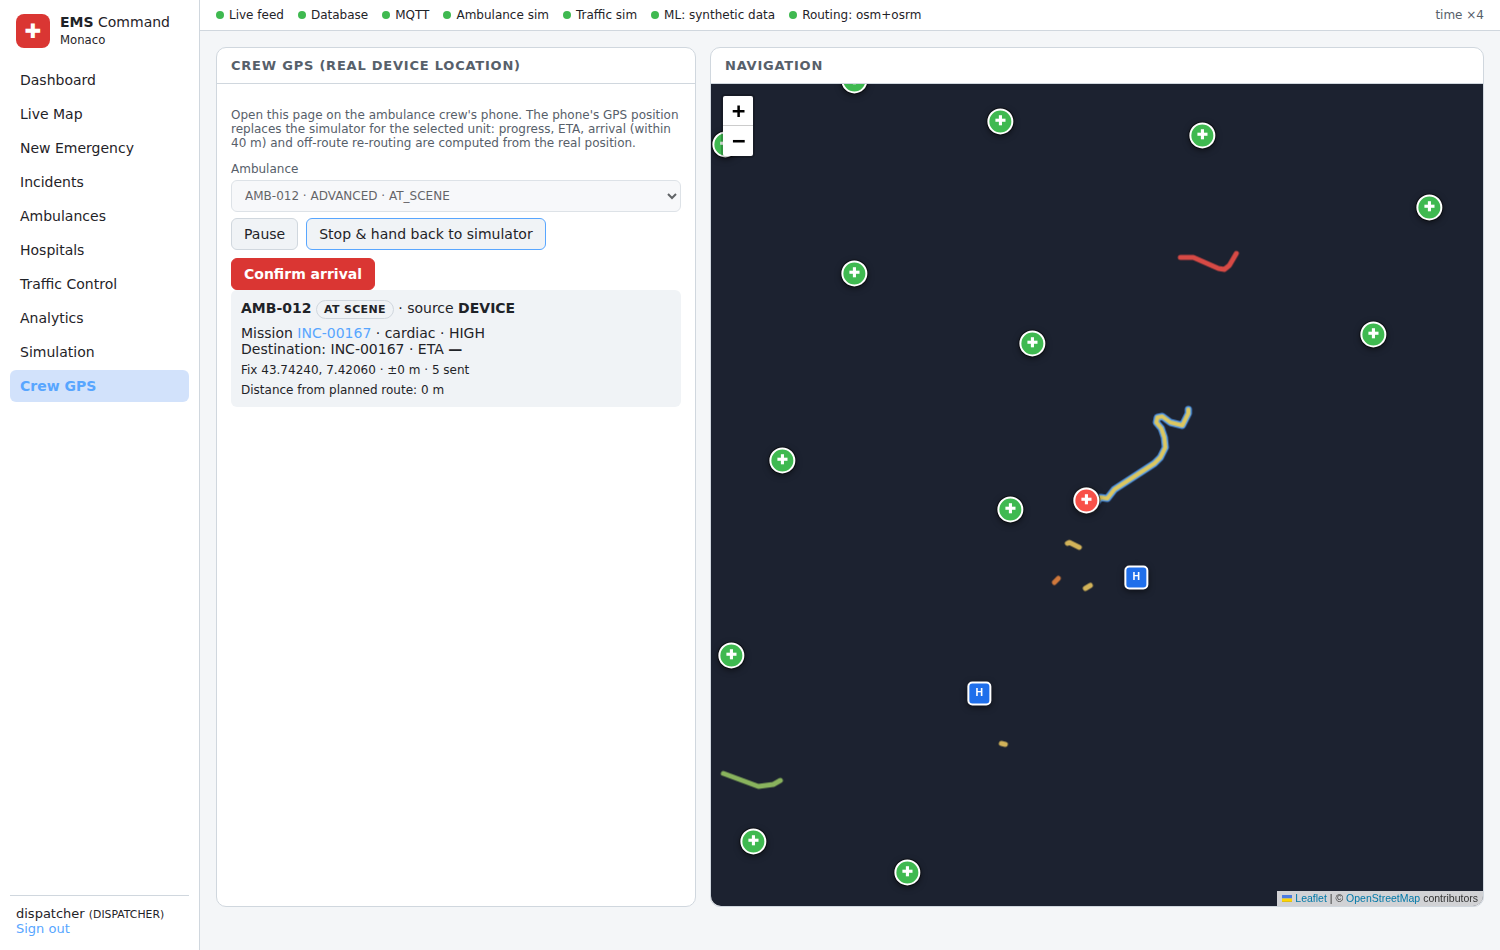
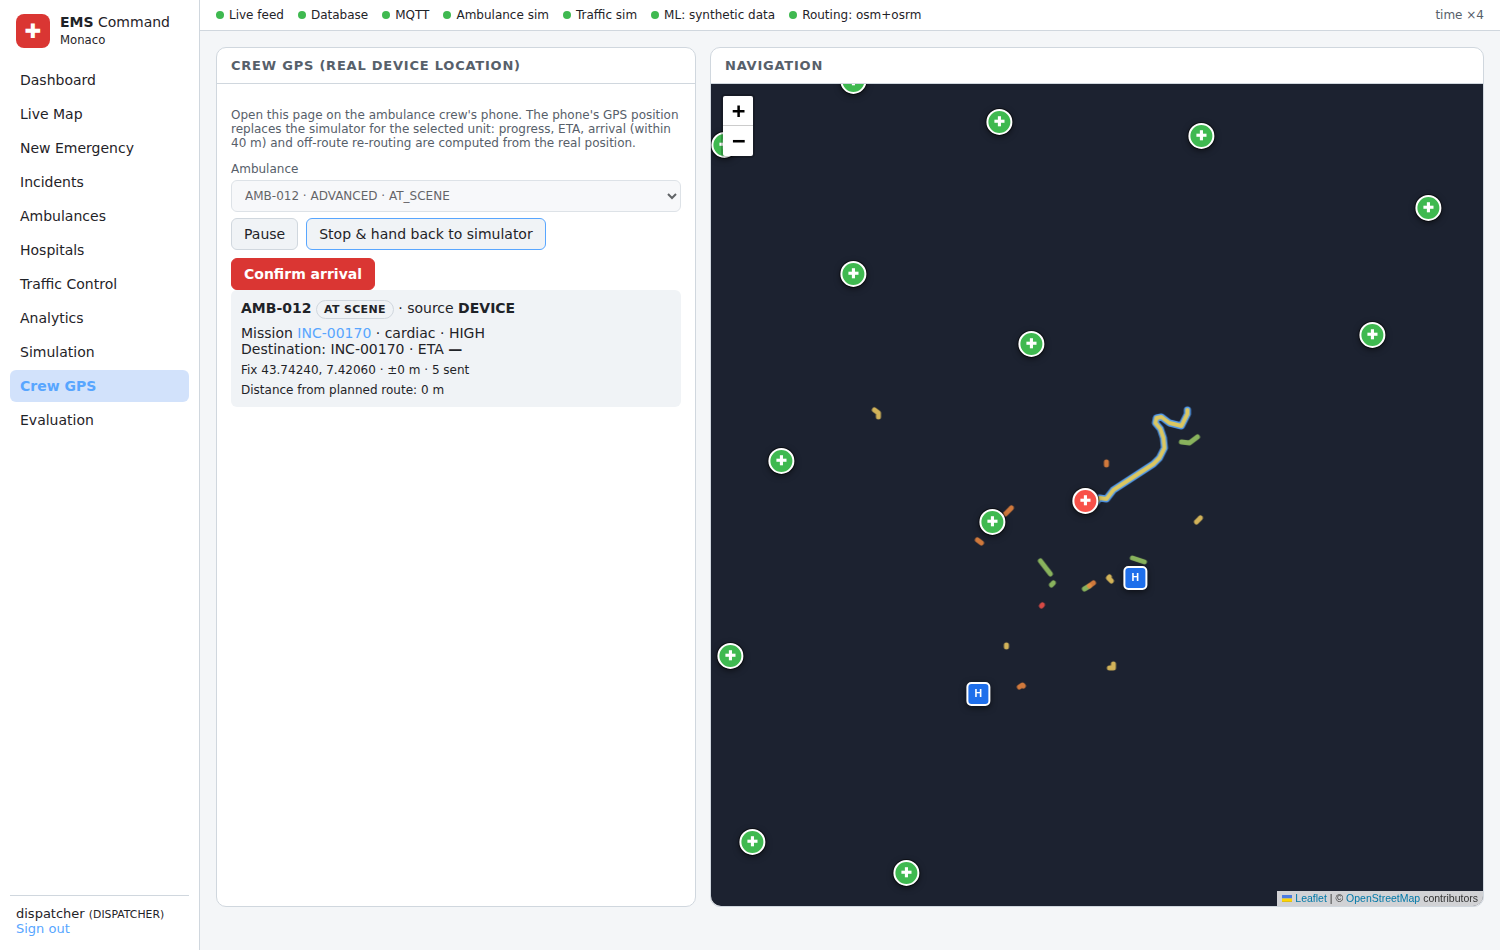
Add Evaluation page (/evaluation) and its browser tests
Stored experiments, configuration and model labels (LEARNED/FALLBACK), comparison of systems A-E with
paired-test markers, per-metric charts with 95% CI, ablation table; ADMIN can start a bounded run.
Screenshots regenerated by the Playwright suite.

Claude-Session: https://claude.ai/code/session_01MB71AZiYJGwNfR2gp3n2DN

diff --git a/frontend/src/pages/Evaluation.tsx b/frontend/src/pages/Evaluation.tsx
@@ -1,0 +1,162 @@
+// Research evaluation: stored experiments (progressive systems A-E and FULL-minus-one ablations) with their
+// paired statistics. Every number comes from /api/evaluation (experiment_* tables); nothing is computed here
+// except formatting.
+import { useEffect, useMemo, useState } from "react";
+import { Bar as RBar, BarChart, CartesianGrid, ErrorBar, ResponsiveContainer, Tooltip, XAxis, YAxis } from "recharts";
+import { ErrorNote, Panel } from "../components/ui";
+import { api, getUser } from "../services/api";
+import { fmtTime } from "../services/format";
+
+const PROGRESSIVE = ["BASELINE", "SEVERITY", "TRAFFIC", "HOSPITAL", "FULL"];
+const CHARTS = ["response_time_s", "patient_wait_s", "critical_delay_s", "hospital_wait_simulated_s", "manual_interventions", "reroute_saved_s"];
+const TABLE = ["response_time_s", "patient_wait_s", "dispatch_delay_s", "actual_travel_s", "eta_abs_error_s", "reroute_saved_s",
+  "reactive_detours", "ambulance_utilization", "no_unit_available_pct", "hospital_wait_simulated_s", "hospital_capability_gap_pct",
+  "unsuitable_unit_pct", "critical_response_s", "critical_delay_s", "critical_delayed_pct", "review_rate", "automatic_decision_rate",
+  "potentially_inappropriate_auto", "under_triage_pct", "resource_conflicts", "reallocations", "manual_interventions"];
+const axis = { stroke: "var(--muted)", fontSize: 12 };
+const SERIES = "#58a6ff";
+
+function fmt(v: number | null | undefined, unit: string) {
+  if (v == null) return "—";
+  if (unit === "s") return Math.abs(v) >= 120 ? `${(v / 60).toFixed(1)} min` : `${v.toFixed(0)} s`;
+  if (unit === "ratio") return v.toFixed(3);
+  if (unit === "%") return `${v.toFixed(1)}%`;
+  return v.toFixed(2);
+}
+
+function tCI(d: any): [number, number] | null {
+  // 95% CI half-width from the stored descriptive statistics (normal approx. for n > 30, t table otherwise)
+  if (!d || d.n < 2 || d.mean == null) return null;
+  const t = d.n > 30 ? 1.96 : [12.71, 4.30, 3.18, 2.78, 2.57, 2.45, 2.36, 2.31, 2.26, 2.23, 2.20, 2.18, 2.16, 2.14, 2.13, 2.12, 2.11, 2.10, 2.09, 2.09, 2.08, 2.07, 2.07, 2.06, 2.06, 2.06, 2.05, 2.05, 2.05][d.n - 2];
+  const h = (t * d.std) / Math.sqrt(d.n);
+  return [h, h];
+}
+
+export default function Evaluation() {
+  const user = getUser();
+  const [runs, setRuns] = useState<any[]>([]);
+  const [sel, setSel] = useState<string | null>(null);
+  const [run, setRun] = useState<any>(null);
+  const [job, setJob] = useState<any>(null);
+  const [form, setForm] = useState({ scenarios: 20, seed: 42, progressive: true, ablation: false });
+  const [error, setError] = useState<string | null>(null);
+
+  const loadRuns = () => api<any[]>("/api/evaluation/runs").then((r) => {
+    setRuns(r);
+    setSel((cur) => cur ?? (r.find((x) => x.status !== "RUNNING")?.id || null));
+  }).catch((e) => setError(e.message));
+  useEffect(() => { loadRuns(); }, []);
+  useEffect(() => {
+    if (!sel) return;
+    setRun(null);
+    api(`/api/evaluation/runs/${sel}`).then(setRun).catch((e) => setError(e.message));
+  }, [sel]);
+  useEffect(() => {   // follow a running job
+    if (job?.state !== "RUNNING") return;
+    const t = window.setInterval(() => api("/api/evaluation/job").then((j) => {
+      setJob(j);
+      if (j.state !== "RUNNING") { loadRuns(); if (j.run_id) setSel(j.run_id); }
+    }), 2000);
+    return () => window.clearInterval(t);
+  }, [job?.state]);
+
+  const start = async () => {
+    setError(null);
+    try { setJob(await api("/api/evaluation/runs", { method: "POST", body: form })); }
+    catch (e: any) { setError(e.message); }
+  };
+
+  const s = run?.summary;
+  const comp = useMemo(() => Object.fromEntries((s?.comparison || []).map((c: any) => [c.metric, c])), [s]);
+  const prog = (s?.strategies || []).filter((n: string) => PROGRESSIVE.includes(n));
+  const abl = (s?.strategies || []).filter((n: string) => n.startsWith("FULL-"));
+  const vsBase = useMemo(() => Object.fromEntries((s?.paired_vs_baseline || []).map((r: any) => [`${r.strategy}|${r.metric}`, r])), [s]);
+  const vsFull = (s?.ablation_vs_full || []).filter((r: any) => ["response_time_s", "patient_wait_s", "critical_delay_s",
+    "hospital_wait_simulated_s", "reroute_saved_s", "under_triage_pct", "manual_interventions", "unsuitable_unit_pct"].includes(r.metric));
+
+  return (
+    <div className="page evaluation" data-testid="evaluation-page">
+      <div className="toolbar"><h1>Research evaluation</h1>
+        <span className="muted">simulated decision-support experiments - same seeded scenarios replayed under each strategy; not clinical or real-world performance</span></div>
+      <ErrorNote error={error} />
+      <div className="two-col">
+        <Panel title="Run an experiment">
+          {user?.role === "ADMIN" ? (
+            <div className="form-grid">
+              <label>Scenarios<input type="number" min={1} max={200} value={form.scenarios} onChange={(e) => setForm({ ...form, scenarios: +e.target.value })} /></label>
+              <label>Seed<input type="number" min={0} value={form.seed} onChange={(e) => setForm({ ...form, seed: +e.target.value })} /></label>
+              <label className="check"><input type="checkbox" checked={form.progressive} onChange={(e) => setForm({ ...form, progressive: e.target.checked })} /> Systems A-E (BASELINE ... FULL)</label>
+              <label className="check"><input type="checkbox" checked={form.ablation} onChange={(e) => setForm({ ...form, ablation: e.target.checked })} /> Ablation (FULL minus one capability)</label>
+              <div className="wide actions"><button className="primary" disabled={job?.state === "RUNNING"} onClick={start} data-testid="run-experiment">Run experiment</button></div>
+              <p className="muted small wide">Runs inside the backend (max 200 scenarios). For 100+ scenarios prefer the CLI:
+                <code> python -m app.evaluation.run_experiment --all --ablation --scenarios 100 --seed 42</code></p>
+            </div>
+          ) : <p className="muted">Experiments are started by an ADMIN (CPU-intensive) or with the CLI; stored results are visible to every role.</p>}
+          {job && <div className="muted small" data-testid="experiment-job">Job {job.run_name}: <b>{job.state}</b> {job.total ? `(${job.done}/${job.total} simulations)` : ""} {job.error || ""}</div>}
+        </Panel>
+        <Panel title="Stored experiments">
+          {runs.length === 0 ? <p className="muted">No experiment yet.</p> : (
+            <table className="table" data-testid="experiment-runs"><thead><tr><th>Run</th><th>Kind</th><th>Scenarios</th><th>Seed</th><th>Traffic model</th><th>Status</th><th>Started</th></tr></thead>
+              <tbody>{runs.map((r) => (
+                <tr key={r.id} className={r.id === sel ? "selected" : ""} onClick={() => setSel(r.id)} style={{ cursor: "pointer" }}>
+                  <td>{r.run_name}</td><td>{r.kind}</td><td>{r.scenario_count}</td><td>{r.random_seed}</td><td>{r.traffic_model}</td><td>{r.status}</td><td>{fmtTime(r.started_at)}</td></tr>))}
+              </tbody></table>)}
+        </Panel>
+      </div>
+
+      {run && !s && <Panel title={run.run_name}><p className="muted">{run.status === "RUNNING" ? "Running…" : run.error || "No summary stored."}</p></Panel>}
+      {s && (<>
+        <Panel title={`Configuration - ${run.run_name}`}>
+          <div className="muted small" data-testid="experiment-meta">
+            seed <b>{run.random_seed}</b> · {run.scenario_count} scenarios · strategies {s.strategies.join(", ")} · code <code>{(run.git_commit || "").slice(0, 10)}</code> ·
+            city {run.city} · routing {run.routing?.graph_source} (OSRM: {run.routing?.osrm}) · traffic prediction <b>{s.traffic_model?.label}</b> ({s.traffic_model?.version}) ·
+            status {run.status}{s.failures?.length ? ` · ${s.failures.length} failed simulations (see failures.csv)` : ""}
+          </div>
+        </Panel>
+        {prog.length > 0 && (
+          <Panel title="Comparison of systems A-E (mean over scenarios; * = paired test vs BASELINE significant after Holm correction)">
+            <div className="table-wrap"><table className="table" data-testid="comparison-table">
+              <thead><tr><th>Metric</th>{prog.map((n: string) => <th key={n}>{n}</th>)}</tr></thead>
+              <tbody>{TABLE.filter((m) => comp[m]).map((m) => (
+                <tr key={m}><td title={`direction: ${comp[m].direction === -1 ? "lower is better" : comp[m].direction === 1 ? "higher is better" : "no preferred direction"}`}>{comp[m].label}</td>
+                  {prog.map((n: string) => {
+                    const t = vsBase[`${n}|${m}`];
+                    return <td key={n} title={t ? `diff ${t.mean_difference?.toFixed(2)} · ${t.test || "no test"}${t.p_adjusted != null ? ` · p(Holm)=${t.p_adjusted.toFixed(4)}` : ""}${t.note ? ` · ${t.note}` : ""}` : ""}>
+                      {fmt(comp[m].values[n], comp[m].unit)}{t?.significant ? " *" : ""}</td>;
+                  })}</tr>))}</tbody></table></div>
+          </Panel>)}
+        {prog.length > 1 && (
+          <div className="grid-3">
+            {CHARTS.filter((m) => comp[m]).map((m) => {
+              const data = prog.map((n: string) => ({ name: n, mean: comp[m].values[n], err: tCI(s.descriptive?.[n]?.[m]), n: s.descriptive?.[n]?.[m]?.n }));
+              return (
+                <Panel key={m} title={`${comp[m].label} (${comp[m].unit})`}>
+                  <ResponsiveContainer width="100%" height={220}>
+                    <BarChart data={data} margin={{ top: 10, right: 10, left: 0, bottom: 0 }}>
+                      <CartesianGrid stroke="var(--grid)" vertical={false} /><XAxis dataKey="name" {...axis} /><YAxis {...axis} />
+                      <Tooltip contentStyle={{ background: "var(--panel)", border: "1px solid var(--border)" }}
+                        formatter={(v: any, _k: any, p: any) => [`${fmt(v, comp[m].unit)} (n=${p.payload.n}; whisker = 95% CI)`, "mean"]} />
+                      <RBar dataKey="mean" fill={SERIES} radius={[4, 4, 0, 0]} maxBarSize={48} isAnimationActive={false}>
+                        <ErrorBar dataKey="err" width={6} stroke="var(--text)" />
+                      </RBar>
+                    </BarChart>
+                  </ResponsiveContainer>
+                </Panel>);
+            })}
+          </div>)}
+        {abl.length > 0 && (
+          <Panel title="Ablation: FULL minus one capability vs FULL (paired, Holm-adjusted)">
+            <div className="table-wrap"><table className="table" data-testid="ablation-table">
+              <thead><tr><th>Configuration</th><th>Metric</th><th>FULL</th><th>Ablated</th><th>Mean diff</th><th>95% CI</th><th>Test</th><th>p (Holm)</th></tr></thead>
+              <tbody>{vsFull.map((r: any) => (
+                <tr key={`${r.strategy}|${r.metric}`}><td>{r.strategy}</td><td>{comp[r.metric]?.label}</td>
+                  <td>{fmt(r.reference_mean, comp[r.metric]?.unit)}</td><td>{fmt(r.strategy_mean, comp[r.metric]?.unit)}</td>
+                  <td>{r.mean_difference == null ? "—" : r.mean_difference.toFixed(2)}</td>
+                  <td>{r.ci95_low == null ? "—" : `[${r.ci95_low.toFixed(1)}, ${r.ci95_high.toFixed(1)}]`}</td>
+                  <td>{r.test || "—"}{r.note ? <span className="muted small"> ({r.note})</span> : null}</td>
+                  <td>{r.p_adjusted == null ? "—" : `${r.p_adjusted.toFixed(4)}${r.significant ? " *" : ""}`}</td></tr>))}</tbody></table></div>
+          </Panel>)}
+      </>)}
+    </div>
+  );
+}

diff --git a/frontend/e2e/evaluation.spec.ts b/frontend/e2e/evaluation.spec.ts
@@ -1,0 +1,36 @@
+import { expect, Page, test } from "@playwright/test";
+import fs from "node:fs";
+
+const SHOTS = process.env.SCREENSHOT_DIR || "../docs/screenshots";
+
+async function login(page: Page, user: string, pw: string) {
+  await page.goto("/login");
+  await page.fill("input[name=username]", user);
+  await page.fill("input[name=password]", pw);
+  await page.click("button:has-text('Sign in')");
+  await expect(page.getByText("Priority queue")).toBeVisible();
+}
+
+test("evaluation page: admin runs a small experiment and sees the comparison", async ({ page }) => {
+  test.setTimeout(240_000);
+  await login(page, "admin", "admin123");
+  await page.click("text=Evaluation");
+  await expect(page.getByTestId("evaluation-page")).toBeVisible();
+  await page.getByLabel("Scenarios").fill("2");
+  await page.getByTestId("run-experiment").click();
+  await expect(page.getByTestId("experiment-job")).toContainText("RUNNING");
+  await expect(page.getByTestId("experiment-job")).toContainText(/COMPLETED|PARTIAL/, { timeout: 200_000 });
+  const table = page.getByTestId("comparison-table");
+  await expect(table).toContainText("Response time");
+  for (const s of ["BASELINE", "SEVERITY", "TRAFFIC", "HOSPITAL", "FULL"]) await expect(table).toContainText(s);
+  await expect(page.getByTestId("experiment-meta")).toContainText(/traffic prediction (LEARNED|FALLBACK)/);
+  if (fs.existsSync(SHOTS)) await page.screenshot({ path: `${SHOTS}/12-evaluation.png`, fullPage: true });
+});
+
+test("evaluation page is read-only for viewers", async ({ page }) => {
+  await login(page, "viewer", "viewer123");
+  await page.goto("/evaluation");
+  await expect(page.getByTestId("evaluation-page")).toBeVisible();
+  await expect(page.getByTestId("run-experiment")).toHaveCount(0);
+  await expect(page.getByTestId("experiment-runs")).toBeVisible();
+});

diff --git a/frontend/src/App.tsx b/frontend/src/App.tsx
@@ -7,6 +7,7 @@ import Dashboard from "./pages/Dashboard";
 import EmergencyDetails from "./pages/EmergencyDetails";
 import Hospitals from "./pages/Hospitals";
 import Crew from "./pages/Crew";
+import Evaluation from "./pages/Evaluation";
 import Incidents from "./pages/Incidents";
 import LiveMap from "./pages/LiveMap";
 import Login from "./pages/Login";
@@ -37,6 +38,7 @@ export default function App() {
           <Route path="/analytics" element={<Analytics />} />
           <Route path="/simulation" element={<Simulation />} />
           <Route path="/crew" element={<Crew />} />
+          <Route path="/evaluation" element={<Evaluation />} />
         </Route>
         <Route path="*" element={<Navigate to="/" replace />} />
       </Routes>

diff --git a/frontend/src/components/Layout.tsx b/frontend/src/components/Layout.tsx
@@ -7,7 +7,7 @@ import { fmtMin } from "../services/format";
 const NAV = [
   ["/", "Dashboard"], ["/map", "Live Map"], ["/emergencies/new", "New Emergency"], ["/emergencies", "Incidents"],
   ["/ambulances", "Ambulances"], ["/hospitals", "Hospitals"], ["/traffic", "Traffic Control"],
-  ["/analytics", "Analytics"], ["/simulation", "Simulation"], ["/crew", "Crew GPS"],
+  ["/analytics", "Analytics"], ["/simulation", "Simulation"], ["/crew", "Crew GPS"], ["/evaluation", "Evaluation"],
 ];
 
 function Dot({ ok, label, title }: { ok: boolean; label: string; title?: string }) {

diff --git a/frontend/src/styles.css b/frontend/src/styles.css
@@ -159,3 +159,7 @@ main { min-width: 0; display: flex; flex-direction: column; }
 .conflict-card.d-escalated { border-left-color: #f85149; }
 .trace { padding-left: 20px; margin: 0; font-size: 13px; max-height: 420px; overflow: auto; }
 .trace li { padding: 3px 0; }
+/* research evaluation page */
+.grid-3 { display: grid; grid-template-columns: repeat(auto-fill, minmax(320px, 1fr)); gap: 12px; }
+.table-wrap { overflow-x: auto; }
+.evaluation .two-col { gap: 12px; margin-bottom: 12px; }
